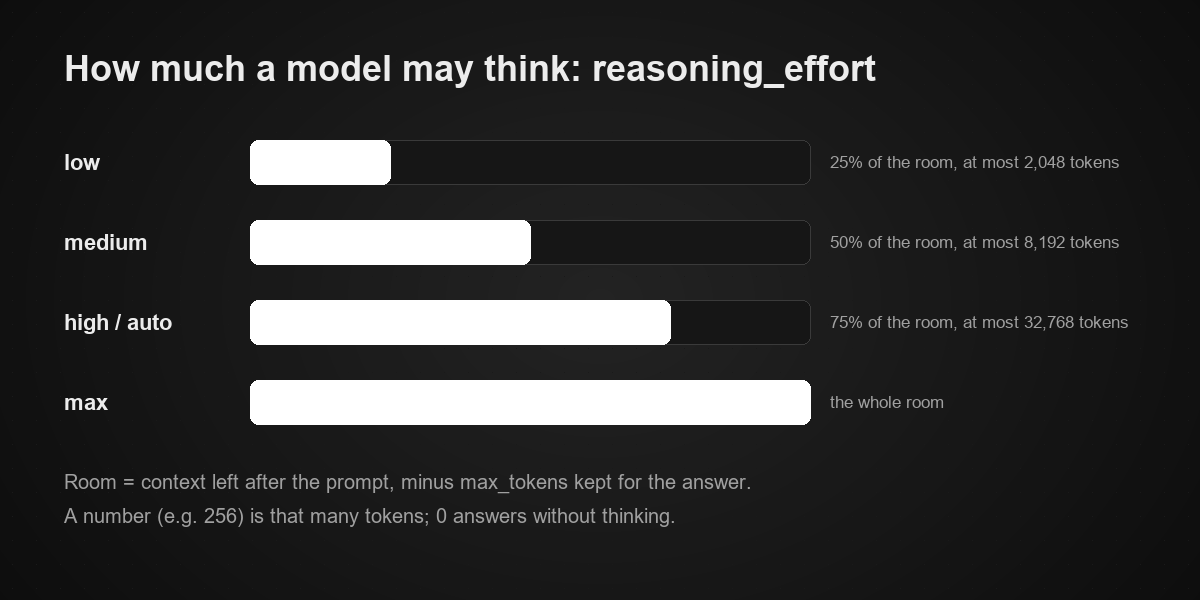
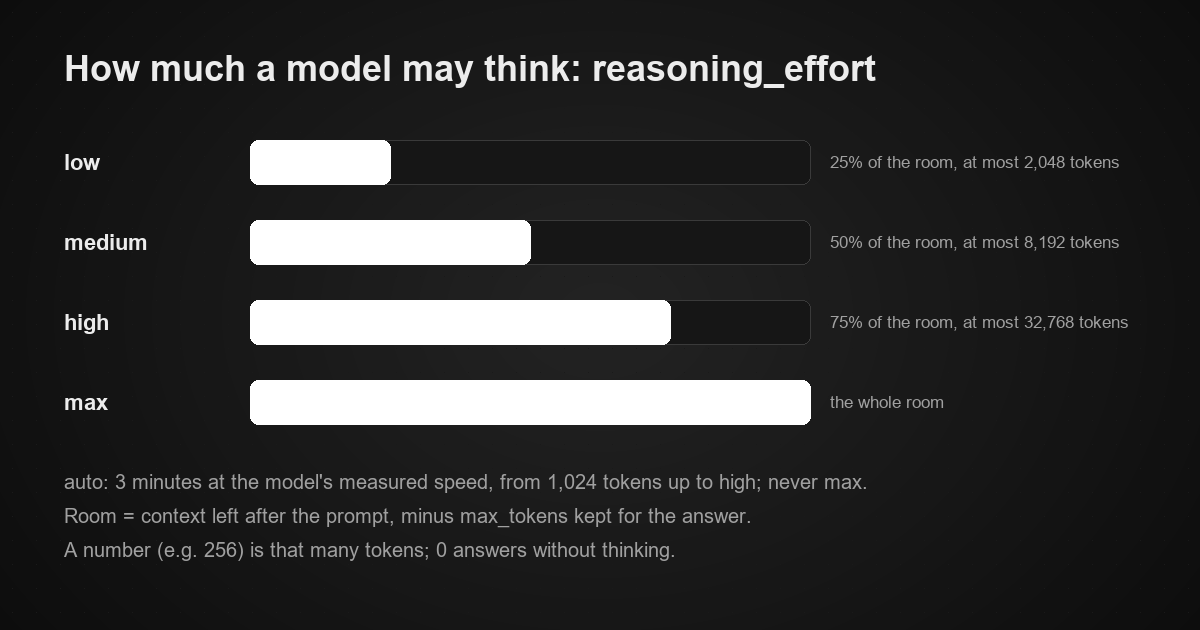
feat(engine): auto reasoning effort follows the measured decode speed
Auto was the same as High. It is now 180 seconds of thinking at the loaded
model's last measured decode speed, at least 1,024 tokens, at most High's
share of the room, never Max. The first answer after a load uses High's
share. The model still ends easy thoughts itself; the ceiling only stops a
long one on a slow machine. Docs, image, READMEs and run 30 updated.

diff --git a/engine/core/src/settings.rs b/engine/core/src/settings.rs
@@ -152,7 +152,7 @@ pub struct OptimizationControl {
     /// Per request, not a load setting: changing it does not reload the model.
     #[serde(default)]
     pub reasoning_effort: ThinkingBudget,
-    /// Share of the room and maximum tokens for Low / Medium / High (Auto = High)
+    /// Share of the room and maximum tokens for Low / Medium / High (High is also Auto's upper limit)
     #[serde(default)]
     pub thinking_presets: ThinkingPresets,
     /// Text written before the end-of-thinking tag when the budget runs out (llama.cpp
@@ -171,7 +171,9 @@ pub struct OptimizationControl {
 /// answer. Accepts the names below or a number of tokens (as a JSON number or a numeric string).
 #[derive(Debug, Clone, Copy, PartialEq, Eq, Default)]
 pub enum ThinkingBudget {
-    /// Same as High
+    /// A ceiling chosen per request from the room and the model's measured speed, never more than
+    /// High and never the whole room (see `ThinkingBudget::limit`). The model ends its thinking itself;
+    /// the ceiling only stops a long one.
     #[default]
     Auto,
     Low,
@@ -191,7 +193,7 @@ pub struct ThinkingShare {
     pub max_tokens: u32,
 }
 
-/// What Low / Medium / High mean (Auto uses High). User-editable defaults, not fixed in the engine.
+/// What Low / Medium / High mean (High is also Auto's upper limit). User-editable defaults, not fixed in the engine.
 #[derive(Debug, Clone, Copy, Serialize, Deserialize, PartialEq)]
 pub struct ThinkingPresets {
     pub low: ThinkingShare,
@@ -209,6 +211,13 @@ impl Default for ThinkingPresets {
     }
 }
 
+/// Auto: thinking may run at most this long at the loaded model's measured decode speed (3 minutes).
+/// High's share of the room stays the upper limit, so a fast machine gets High and a slow one less.
+pub const AUTO_THINK_SECONDS: f64 = 180.0;
+/// Auto never sets fewer thinking tokens than this (or the room when it is smaller), so a thinking
+/// model on a slow machine can still reason before it answers.
+pub const AUTO_THINK_FLOOR: usize = 1024;
+
 /// Thinking budget for one generation, after the room limit.
 #[derive(Debug, Clone, Copy, PartialEq, Eq, Serialize)]
 pub struct ThinkingLimit {
@@ -220,12 +229,22 @@ pub struct ThinkingLimit {
 impl ThinkingBudget {
     /// Thinking tokens for one generation. `room` = context left after the prompt minus the tokens kept
     /// for the answer, so whatever is chosen, the answer still fits (room 0 = no thinking).
-    pub fn limit(&self, room: usize, presets: &ThinkingPresets) -> ThinkingLimit {
+    /// `decode_per_second` = the loaded model's last measured decode speed, used only by Auto
+    /// (None before its first answer: Auto then takes High's share of the room).
+    pub fn limit(&self, room: usize, presets: &ThinkingPresets, decode_per_second: Option<f64>) -> ThinkingLimit {
         let of_room = |p: &ThinkingShare| {
             ((room as f64 * p.share.clamp(0.0, 1.0)) as usize).min(p.max_tokens as usize)
         };
         match self {
-            ThinkingBudget::Auto | ThinkingBudget::High => ThinkingLimit { tokens: of_room(&presets.high), capped: false },
+            ThinkingBudget::Auto => {
+                let upper = of_room(&presets.high);
+                let tokens = match decode_per_second.filter(|s| s.is_finite() && *s > 0.0) {
+                    Some(speed) => ((speed * AUTO_THINK_SECONDS) as usize).clamp(AUTO_THINK_FLOOR.min(upper), upper),
+                    None => upper,
+                };
+                ThinkingLimit { tokens, capped: false }
+            }
+            ThinkingBudget::High => ThinkingLimit { tokens: of_room(&presets.high), capped: false },
             ThinkingBudget::Low => ThinkingLimit { tokens: of_room(&presets.low), capped: false },
             ThinkingBudget::Medium => ThinkingLimit { tokens: of_room(&presets.medium), capped: false },
             ThinkingBudget::Max => ThinkingLimit { tokens: room, capped: false },

diff --git a/engine/llama/src/native/stream.rs b/engine/llama/src/native/stream.rs
@@ -20,6 +20,9 @@ pub(crate) struct StreamOptions<'a> {
 /// smaller: with layers in RAM every decode has a fixed cost (weights copied to the GPU, or a
 /// CPU pass under 32 tokens), so small chunks would multiply it without stopping sooner.
 const BACKGROUND_PROMPT_CHUNK: usize = 64;
+/// An answer shorter than this does not update the decode speed Auto effort uses (start-up costs
+/// dominate a few tokens)
+const MIN_TOKENS_FOR_SPEED: i32 = 32;
 
 struct SafeSampler {
     sampler: *mut std::ffi::c_void,
@@ -835,13 +838,26 @@ pub(crate) fn stream_tokens_with_media(
         cluaiz_core::live::start();
 
         // Room for thinking = context left after the prompt minus the answer's reserve, so whatever budget
-        // was chosen, the answer still fits; Low/Medium/High are shares of it (settings, Auto = High)
+        // was chosen, the answer still fits; Low/Medium/High are shares of it (settings), Auto is set
+        // by the last measured decode speed, at most High
         let room = n_ctx.saturating_sub(n_cur.max(0) as usize + gen_reserve);
         let presets = cluaiz_core::Settings::current()
             .optimization
             .thinking_presets;
-        let limit = thinking_budget.limit(room, &presets);
+        let limit = thinking_budget.limit(room, &presets, llama.decode_per_second);
         let max_think_tokens = limit.tokens;
+        if thinking_budget == cluaiz_core::ThinkingBudget::Auto && enable_thinking {
+            match llama.decode_per_second {
+                Some(speed) => info!(
+                    "🧠 [NativeStream] Auto thinking ceiling {} tokens ({:.1} t/s for up to {:.0} s, room {})",
+                    max_think_tokens, speed, cluaiz_core::AUTO_THINK_SECONDS, room
+                ),
+                None => info!(
+                    "🧠 [NativeStream] Auto thinking ceiling {} tokens (High's share of room {}; no speed measured yet)",
+                    max_think_tokens, room
+                ),
+            }
+        }
         if limit.capped {
             info!(
                 "🧠 [NativeStream] Thinking budget {:?} lowered to {} tokens so the answer fits the context",
@@ -1338,6 +1354,10 @@ pub(crate) fn stream_tokens_with_media(
         });
 
         let t = llama.timings();
+        // Remembered for Auto effort; very short answers give a noisy speed and are skipped
+        if t.predicted_n >= MIN_TOKENS_FOR_SPEED && t.predicted_per_second > 0.0 {
+            llama.decode_per_second = Some(t.predicted_per_second);
+        }
         info!(
             "⏱ [NativeStream] llama.cpp timings: prompt {} tokens in {:.0} ms ({:.2} t/s) | generation {} tokens in {:.0} ms ({:.2} t/s)",
             t.prompt_n, t.prompt_ms, t.prompt_per_second, t.predicted_n, t.predicted_ms, t.predicted_per_second

diff --git a/engine/core/src/settings_tests.rs b/engine/core/src/settings_tests.rs
@@ -77,7 +77,7 @@ fn thinking_budget_names_numbers_and_auto() {
     // room = n_ctx - prompt (1000) - answer reserve (n_ctx / 4, 256..2048)
     let p = ThinkingPresets::default();
     let room = |n_ctx: usize| n_ctx - 1000 - (n_ctx / 4).clamp(256, 2048);
-    let t = |b: ThinkingBudget, n_ctx: usize| b.limit(room(n_ctx), &p).tokens;
+    let t = |b: ThinkingBudget, n_ctx: usize| b.limit(room(n_ctx), &p, None).tokens;
     use ThinkingBudget::*;
     for (n_ctx, low, medium, high, max) in [
         (4096, 518, 1036, 1554, 2072),
@@ -98,25 +98,37 @@ fn thinking_budget_names_numbers_and_auto() {
             "n_ctx {}",
             n_ctx
         );
-        assert_eq!(t(Auto, n_ctx), high, "auto = high at n_ctx {}", n_ctx);
+        // before the first answer (no measured speed) Auto takes High's share
+        assert_eq!(t(Auto, n_ctx), high, "auto without a speed at n_ctx {}", n_ctx);
     }
     // a user number bigger than the room is lowered so the answer still fits
     assert_eq!(
-        Tokens(100_000).limit(2072, &p),
+        Tokens(100_000).limit(2072, &p, None),
         ThinkingLimit {
             tokens: 2072,
             capped: true
         }
     );
     assert_eq!(
-        Tokens(500).limit(2072, &p),
+        Tokens(500).limit(2072, &p, None),
         ThinkingLimit {
             tokens: 500,
             capped: false
         }
     );
     // no room: no thinking, straight to the answer
-    assert_eq!(High.limit(0, &p).tokens, 0);
+    assert_eq!(High.limit(0, &p, None).tokens, 0);
+    // Auto: 3 minutes at the measured speed, between the floor and High's share; never Max
+    let auto = |room: usize, speed: f64| Auto.limit(room, &p, Some(speed)).tokens;
+    assert_eq!(auto(100_000, 5.0), 1024, "slow CPU: the floor");
+    assert_eq!(auto(100_000, 36.0), 6480);
+    assert_eq!(auto(100_000, 80.0), 14_400);
+    assert_eq!(auto(100_000, 250.0), 32_768, "fast GPU: High's upper limit");
+    assert_eq!(auto(28_000, 250.0), 21_000, "fast GPU, small room: 75% of it");
+    assert_eq!(auto(800, 5.0), 600, "room smaller than the floor: High's share of the room");
+    assert_eq!(auto(0, 80.0), 0, "no room: no thinking");
+    assert_eq!(Auto.limit(100_000, &p, Some(f64::NAN)).tokens, 32_768, "no usable speed: High's share");
+    assert_eq!(Auto.limit(100_000, &p, Some(0.0)).tokens, 32_768);
     // default effort is saved with the settings and is not a reload reason
     let mut opt = OptimizationControl::default();
     let fp = opt.load_fingerprint();

diff --git a/docs/tools/make_images.py b/docs/tools/make_images.py
@@ -159,11 +159,11 @@ def request_queue() -> None:
 
 def thinking_budget() -> None:
     """api/inference/chat_completions.md: reasoning_effort as a share of the room"""
-    image, draw = canvas(600)
+    image, draw = canvas(630)
     title(draw, "How much a model may think: reasoning_effort")
     rows = [("low", 0.25, "25% of the room, at most 2,048 tokens"),
             ("medium", 0.50, "50% of the room, at most 8,192 tokens"),
-            ("high / auto", 0.75, "75% of the room, at most 32,768 tokens"),
+            ("high", 0.75, "75% of the room, at most 32,768 tokens"),
             ("max", 1.00, "the whole room")]
     left, width = 250, 560
     for i, (name, share, text) in enumerate(rows):
@@ -172,8 +172,9 @@ def thinking_budget() -> None:
         draw.rounded_rectangle([left, y, left + width, y + 44], radius=8, outline=CARD_LINE, width=1, fill=CARD)
         draw.rounded_rectangle([left, y, left + int(width * share), y + 44], radius=8, fill=ACCENT)
         draw.text((left + width + 20, y + 12), text, font=font(17), fill=GREY)
-    note(draw, "Room = context left after the prompt, minus max_tokens kept for the answer.", 470)
-    note(draw, "A number (e.g. 256) is that many tokens; 0 answers without thinking.", 504)
+    note(draw, "auto: 3 minutes at the model's measured speed, from 1,024 tokens up to high; never max.", 470)
+    note(draw, "Room = context left after the prompt, minus max_tokens kept for the answer.", 504)
+    note(draw, "A number (e.g. 256) is that many tokens; 0 answers without thinking.", 538)
     save(image, "api/thinking-budget.png")
 
 

diff --git a/engine/core/src/lib.rs b/engine/core/src/lib.rs
@@ -18,7 +18,7 @@ pub mod providers;
 pub use env::{EnvironmentManager, EnvironmentMode};
 pub use settings::{
     Settings, ActiveUserSettings, ChatMemorySettings, OptimizationControl, FeatureState, KvCacheQuantization, ContextShiftingMode,
-    ContextSetting, SamplerDefaults, LlamaLoadParams, ThinkingBudget, ThinkingLimit, ThinkingPresets, ThinkingShare, OnnxSettings, set_active_context, active_context_tokens, active_model_path,
+    ContextSetting, SamplerDefaults, LlamaLoadParams, ThinkingBudget, ThinkingLimit, ThinkingPresets, ThinkingShare, AUTO_THINK_SECONDS, AUTO_THINK_FLOOR, OnnxSettings, set_active_context, active_context_tokens, active_model_path,
     DEFAULT_SAFE_VRAM_BUFFER_GB, MIN_SAFE_VRAM_BUFFER_GB, DEFAULT_SAFE_RAM_BUFFER_GB, MIN_SAFE_RAM_BUFFER_GB,
 };
 pub use units::{BYTE, KIB, MIB, GIB, GIB_F64, MIB_F64, bytes_to_gb, bytes_to_gib, bytes_to_mib, gib_to_bytes, gib_to_gb, group_digits, mib_to_bytes};

diff --git a/engine/llama/src/native/core.rs b/engine/llama/src/native/core.rs
@@ -45,6 +45,9 @@ pub struct NativeLlama {
     pub mtp: Option<crate::native::speculative::MtpDrafter>,
     /// Stop drafting in an answer where MTP is slower than plain decoding (Auto; see `stream.rs`)
     pub mtp_guard: bool,
+    /// Decode speed (tokens per second) of the last answer long enough to measure; Auto effort
+    /// turns it into a thinking ceiling (`ThinkingBudget::limit`). None until the first such answer.
+    pub decode_per_second: Option<f64>,
 }
 
 /// The request does not fit the context (llama-server's `exceed_context_size_error`). It is raised
@@ -873,6 +876,7 @@ impl NativeLlama {
             mtp: None,
             mtp_guard,
             mtp_timings: None,
+            decode_per_second: None,
         };
         if mtp_wanted {
             match crate::native::speculative::MtpDrafter::new(model_ptr, ctx_ptr, mtp_draft_max) {

diff --git a/engine/llama/README.md b/engine/llama/README.md
@@ -102,6 +102,7 @@ graph LR
 
 - **Tags and budget:** actual template/model tags and the existing context-aware token budget configure the upstream sampler. A prompt already inside reasoning starts counting immediately; otherwise the gate waits for a real start sequence. No model-name rules or fixed reasoning tags are used.
 - **Ownership:** `SafeSampler` owns a composed chain: the reasoning gate precedes the existing already-prefilled user chain. The borrowed `ReasoningHandle` is used only on that generation thread while the root lives. Root destruction frees both samplers once. Initialization errors leave the old chain with its caller.
+- **Auto effort:** after each answer of at least 32 tokens the stream keeps its decode speed (`NativeLlama.decode_per_second`, from `llama.timings()`), and the next Auto request gets that speed times 180 s as its thinking ceiling, between 1,024 tokens and High's share of the room (`ThinkingBudget::limit`). The first answer after a load has no speed and uses High's share. The ceiling only stops a long thought: the model still ends easy ones itself. Measured (Qwen3-0.6B Q4_K_M on the Windows dev machine's GPU, 16k context, 2026-11-21, run 30): 174-180 t/s gives about 31,000 tokens, so the room share (about 11,970) applied; the model used 285, 1,749 and 1,176 thinking tokens on three questions and ended each itself. The log line `Auto thinking ceiling` names the number and its reason.
 - **Skip:** `NativeSession` retains the request's `Arc<AtomicBool>`; no global skip pointer is used. Before sampling, the gate receives the manual-force request. It forces the configured optional message and real end sequence through normal accept/decode/history handling, then sampling continues. The API parser waits for that sequence rather than declaring reasoning complete itself.
 - **Unclosed thinking:** when the model ends its turn (end of generation) while its thinking is still open, its answer or tool call is inside the thinking, where the parser does not take it. The gate then forces the same end sequence once and sampling continues, so the model writes its answer or call outside thinking (with the tool-call grammar awake). This happens at most once per generation.
 - **Report:** `ThinkingReport.ended_by` distinguishes an accepted native `skip`, automatic `budget` forcing, thinking `closed` after the model ended inside it, and a natural `model` end. The HTTP control acknowledgment alone does not prove that the model has reached the answer.
@@ -320,4 +321,5 @@ grows, and MTP can lose, when:
 | Tests: MoE `n_cpu_moe`, weights larger than RAM, temperature > 0, a 3000-token prompt, Q4_0 / Q8_0 / IQ4_XS | each can turn the gain into a loss (table above); split, CPU, draft 1-4 and `p_min` are done | an MoE MTP model (the smallest Qwen3.5/3.6-35B-A3B MTP file is 11.4 GB) and small downloads for the quant types |
 | Metal and Vulkan runs | reports disagree on Metal; Vulkan had wrong output in early reports | a Mac and a Vulkan machine |
 | Gemma 4 MTP sidecar file (`mtp-*.gguf`) | `pull` downloads it, the Engine does not use it | load it as a draft model (`common_speculative_init_result` takes its path) |
+| Auto effort on a slow CPU | the speed rule is unit-tested (5 t/s gives the 1,024 floor, 36 t/s gives 6,480) but not run on a real CPU-only machine | a CPU-only run (the planned 8 GB cloud VM) reading the `Auto thinking ceiling` log line |
 | Live API contract proof for MTP usage | A model with working MTP is needed to exercise both response modes | Run the ignored `mtp_contract` test with a model path and fresh isolated home |

diff --git a/docs/api/inference/chat_completions.md b/docs/api/inference/chat_completions.md
@@ -437,9 +437,7 @@ After projector loading, the incremental request-RAM check returns an error cont
 
 ## Reasoning Budget Levels (`think_mode` & `reasoning_effort`)
 
-| Mode / Effort | Budget Limit | Behavior Description |
-|:---|:---:|:---|
-![reasoning_effort as a share of the room: low 25% (at most 2,048 tokens), medium 50% (at most 8,192), high and auto 75% (at most 32,768), max the whole room](../../assets/api/thinking-budget.png)
+![reasoning_effort as a share of the room: low 25% (at most 2,048 tokens), medium 50% (at most 8,192), high 75% (at most 32,768), max the whole room; auto is 3 minutes of thinking at the model's measured speed, from 1,024 tokens up to high](../../assets/api/thinking-budget.png)
 
 The thinking budget is a share of the *room*: the context left after the prompt, minus the tokens kept
 for the answer (`max_tokens`), so the answer always fits. The shares are user settings
@@ -448,13 +446,21 @@ for the answer (`max_tokens`), so the answer always fits. The shares are user se
 
 | Effort | Thinking budget (defaults) |
 |:---|:---|
-| **`"auto"`** | Same as `"high"` |
+| **`"auto"`** | What the machine can think in 3 minutes: the model's measured decode speed times 180 seconds, at least 1,024 tokens and at most `"high"`; never `"max"`. Before the model's first answer (no speed yet) it is `"high"`. |
 | **`"low"`** | 25% of the room, at most 2,048 tokens |
 | **`"medium"`** | 50% of the room, at most 8,192 tokens |
 | **`"high"`** | 75% of the room, at most 32,768 tokens |
 | **`"max"`** | The whole room |
 | **Number** (e.g. `256`) | That many tokens, never more than the room; `0` answers without thinking |
 | `think_mode: "off"` | No thinking (the template's empty thinking block is prefilled) |
+
+Every budget is a ceiling, not a target: a thinking model ends its thinking by itself, so an easy
+question uses far less. Auto follows the same idea as llama.cpp's unlimited default, Gemini's dynamic
+thinking and Claude's adaptive thinking (the model decides), and adds a cap that keeps a slow machine
+from thinking for an hour. Examples: 5 tokens per second gives 1,024 tokens; 36 gives 6,480; 80 gives
+14,400; a fast GPU reaches the `"high"` limit. The server log names the number
+(`Auto thinking ceiling ... tokens`). For a cloud provider, `"auto"` sends no effort and the provider
+decides.
 
 When the budget runs out, the Engine closes the thinking block (with `reasoning_budget_message` when set)
 and the model writes its answer.

diff --git a/test/cloud/BENCHMARKS.md b/test/cloud/BENCHMARKS.md
@@ -28,6 +28,7 @@ Each run has its folder in `runs/` with a `SUMMARY.md` and the raw logs. Models 
 | [27](runs/2026-11-20-run27-windows-os-sandbox/SUMMARY.md) | 2026-11-20 | Windows build 26300 | - | - | AppContainer OS sandbox, `cargo build -p cmd --release` passed | 16 / 16 os_sandbox unit tests | helper checks: files, secrets, network, tools | home, .ssh, .cluaiz, Documents denied; workspace writable; network only when allowed; node, npm and per-user python do not start |
 | [28](runs/2026-11-21-run28-linux-os-sandbox/SUMMARY.md) | 2026-11-21 | GCP e2-standard-2, Ubuntu 24.04 | - | - | OS sandbox, bubblewrap | 8 / 8 real checks; 19 / 19 os_sandbox unit tests on Linux | workspace, home, ssh, cargo credentials, toolchains, network | stock Ubuntu 24.04 blocks bwrap (probe falls back); with the AppArmor profile all pass; fixed a mask bug on missing secret paths |
 | [29](runs/2026-11-21-run29-docs-first-api-request/SUMMARY.md) | 2026-11-21 | Windows build 26300 | qwen3-0.6b Q4_K_M | - | docs examples, release build | 8 / 8 steps recorded | first API request page | answer, stream, 400, 401 after restart; `token create` needs a server restart |
+| [30](runs/2026-11-21-run30-auto-thinking-ceiling/SUMMARY.md) | 2026-11-21 | Windows build 26300 | - | dev machine GPU (qwen3-0.6b Q4_K_M) | debug, `cargo build -p cmd` | cluaiz-core settings 9 / 9 | 3 chats, `reasoning_effort: auto` | Auto ceiling = room share at 174-180 t/s; model used 285-1,749 thinking tokens and ended each itself |
 | [4a](runs/2026-10-28-run4a-linux-t4-release-cuda13/) | 2026-10-28 | Ubuntu 24.04, driver 580 (CUDA 13.0) | Xeon 2.3 GHz, 8 vCPU / 29 GiB | T4 16 GB | release v0.1.0 by `install.sh`, CUDA 13 pack | - | 0 / 29 | ❌ CUDA 13.4 code cannot run on a CUDA 13.0 driver for T4; installer fixed |
 | [4b](runs/2026-10-28-run4b-linux-t4-release-cuda12/SUMMARY.md) | 2026-10-28 | same VM | same | T4 16 GB | release v0.1.0 by `install.sh`, CUDA 12 pack | - | 11 / 35 | ❌ server aborted on Kokoro CUDA (system cuDNN for CUDA 13); engine fix pending |
 | [5](runs/2026-10-28-run5-linux-t4-regression/RESULTS.md) | 2026-10-28 | Ubuntu 24.04, driver 580 | Xeon 2.3 GHz, 8 vCPU / 29 GiB, then 4 vCPU / 15 GiB | T4 16 GB | release v0.1.0 (CUDA 12 pack), then `main` with two prompt fixes | - | 18 / 18 `run.py` tests | ✅ Cluaiz vs llama.cpp: generation equal; prompt equal after the fixes, up to 1.6x faster split |

diff --git a/engine/core/README.md b/engine/core/README.md
@@ -27,7 +27,7 @@ graph TD
 | Module | Responsibility |
 |---|---|
 | [`env.rs`](src/env.rs) | Dynamic root discovery (Dev, Portable, Installed). Zero hardcoded paths. |
-| [`settings.rs`](src/settings.rs) | In-memory cached active user settings. Eliminates repeated disk reads. |
+| [`settings.rs`](src/settings.rs) | In-memory cached active user settings. Eliminates repeated disk reads. Also the thinking budget rule (`ThinkingBudget::limit`): Low / Medium / High are shares of the room (`ThinkingPresets`); Auto is a ceiling of `AUTO_THINK_SECONDS` (180 s) at the model's measured decode speed, at least `AUTO_THINK_FLOOR` (1,024) and at most High's share, never Max. Why: llama.cpp, Gemini (`thinkingBudget: -1`) and Claude (adaptive thinking) let the model decide how long to think and only cap it; an engine cannot judge a question's difficulty without running a model, but it can stop a slow machine from thinking for an hour. Tests: `settings_tests.rs` (`thinking_budget_names_numbers_and_auto`). |
 | [`units.rs`](src/units.rs) | Strict `GiB`, `MiB`, `bytes` conversion functions. |
 | [`contracts.rs`](src/contracts.rs) | Standard engine interfaces implemented by `llama` and `onnx`; shared finite L2 embedding normalization rejects empty, zero and non-finite output, and `InvalidEmbeddingInput` distinguishes input rejection from native failure. |
 | [`media.rs`](src/media.rs) | Backend-neutral RGB8 and PCM F32 buffers with layout validation and shared immutable storage. |

diff --git a/test/cloud/runs/2026-11-21-run30-auto-thinking-ceiling/SUMMARY.md b/test/cloud/runs/2026-11-21-run30-auto-thinking-ceiling/SUMMARY.md
@@ -1,0 +1,27 @@
+# Run 30: Auto thinking ceiling follows the measured speed
+
+Windows 11 (build 26300), Engine 0.1.0 debug build (`cargo build -p cmd`), Qwen3-0.6B Q4_K_M on the
+machine's GPU, 16k context, an isolated `CLUAIZ_HOME` on port 8011 (never the owner's 8000 server).
+Script: `auto-effort.sh`. Raw output: `output.txt` (usage lines, then the server log lines).
+
+## What changed in the code
+
+`reasoning_effort: "auto"` was the same as `"high"` (`engine/core/src/settings.rs`). It is now 180 seconds
+of thinking at the loaded model's last measured decode speed, at least 1,024 tokens, at most High's share
+of the room, never Max. The first answer after a load has no speed yet and uses High's share.
+
+## Result
+
+| Request | Ceiling (log) | Speed used | Thinking tokens the model used | Ended by |
+|---|---|---|---|---|
+| "What is 2+2?" | 11,976 | none yet (first answer) | 285 | the model |
+| 17 x 23 with steps | 11,971 | 180.2 t/s | 1,749 | the model |
+| train trip length | 11,963 | 173.9 t/s | 1,176 | the model |
+
+180 t/s x 180 s is about 32,400 tokens, more than 75% of the room, so the room share applied, as the
+rule says. The model ended every thought on its own, far below the ceiling.
+
+## Not tested here
+
+A slow machine, where the speed rule lowers the ceiling (5 t/s gives 1,024, 36 t/s gives 6,480). Covered
+by unit tests in `engine/core/src/settings_tests.rs`; a CPU-only run is pending (8 GB cloud VM).

diff --git a/docs/engine/llm_optimization.md b/docs/engine/llm_optimization.md
@@ -72,8 +72,8 @@ the GPU) 18.2 t/s generation, 870 t/s prompt; CPU only 10.5 t/s and 48 t/s. The 
 | Field | Default | Meaning |
 |---|---|---|
 | `think_mode` | `Auto` | Thinking for reasoning models: `On`, `Off`, `Auto` |
-| `reasoning_effort` | `auto` | Thinking budget for chats that send no `reasoning_effort`: `auto`, `low`, `medium`, `high`, `max` or a number of tokens. Not a load setting: changing it does not reload the model |
-| `thinking_presets` | built in | Share of the room and maximum tokens for Low / Medium / High |
+| `reasoning_effort` | `auto` | Thinking budget for chats that send no `reasoning_effort`: `auto`, `low`, `medium`, `high`, `max` or a number of tokens. `auto` = 3 minutes of thinking at the model's measured speed, from 1,024 tokens up to `high` ([details](../api/inference/chat_completions.md#reasoning-budget-levels-think_mode--reasoning_effort)). Not a load setting: changing it does not reload the model |
+| `thinking_presets` | built in | Share of the room and maximum tokens for Low / Medium / High (High is also the upper limit of `auto`) |
 | `reasoning_budget_message` | built in | Text written before the end-of-thinking tag when the budget runs out |
 
 ## MTP speculative decoding (experimental)
